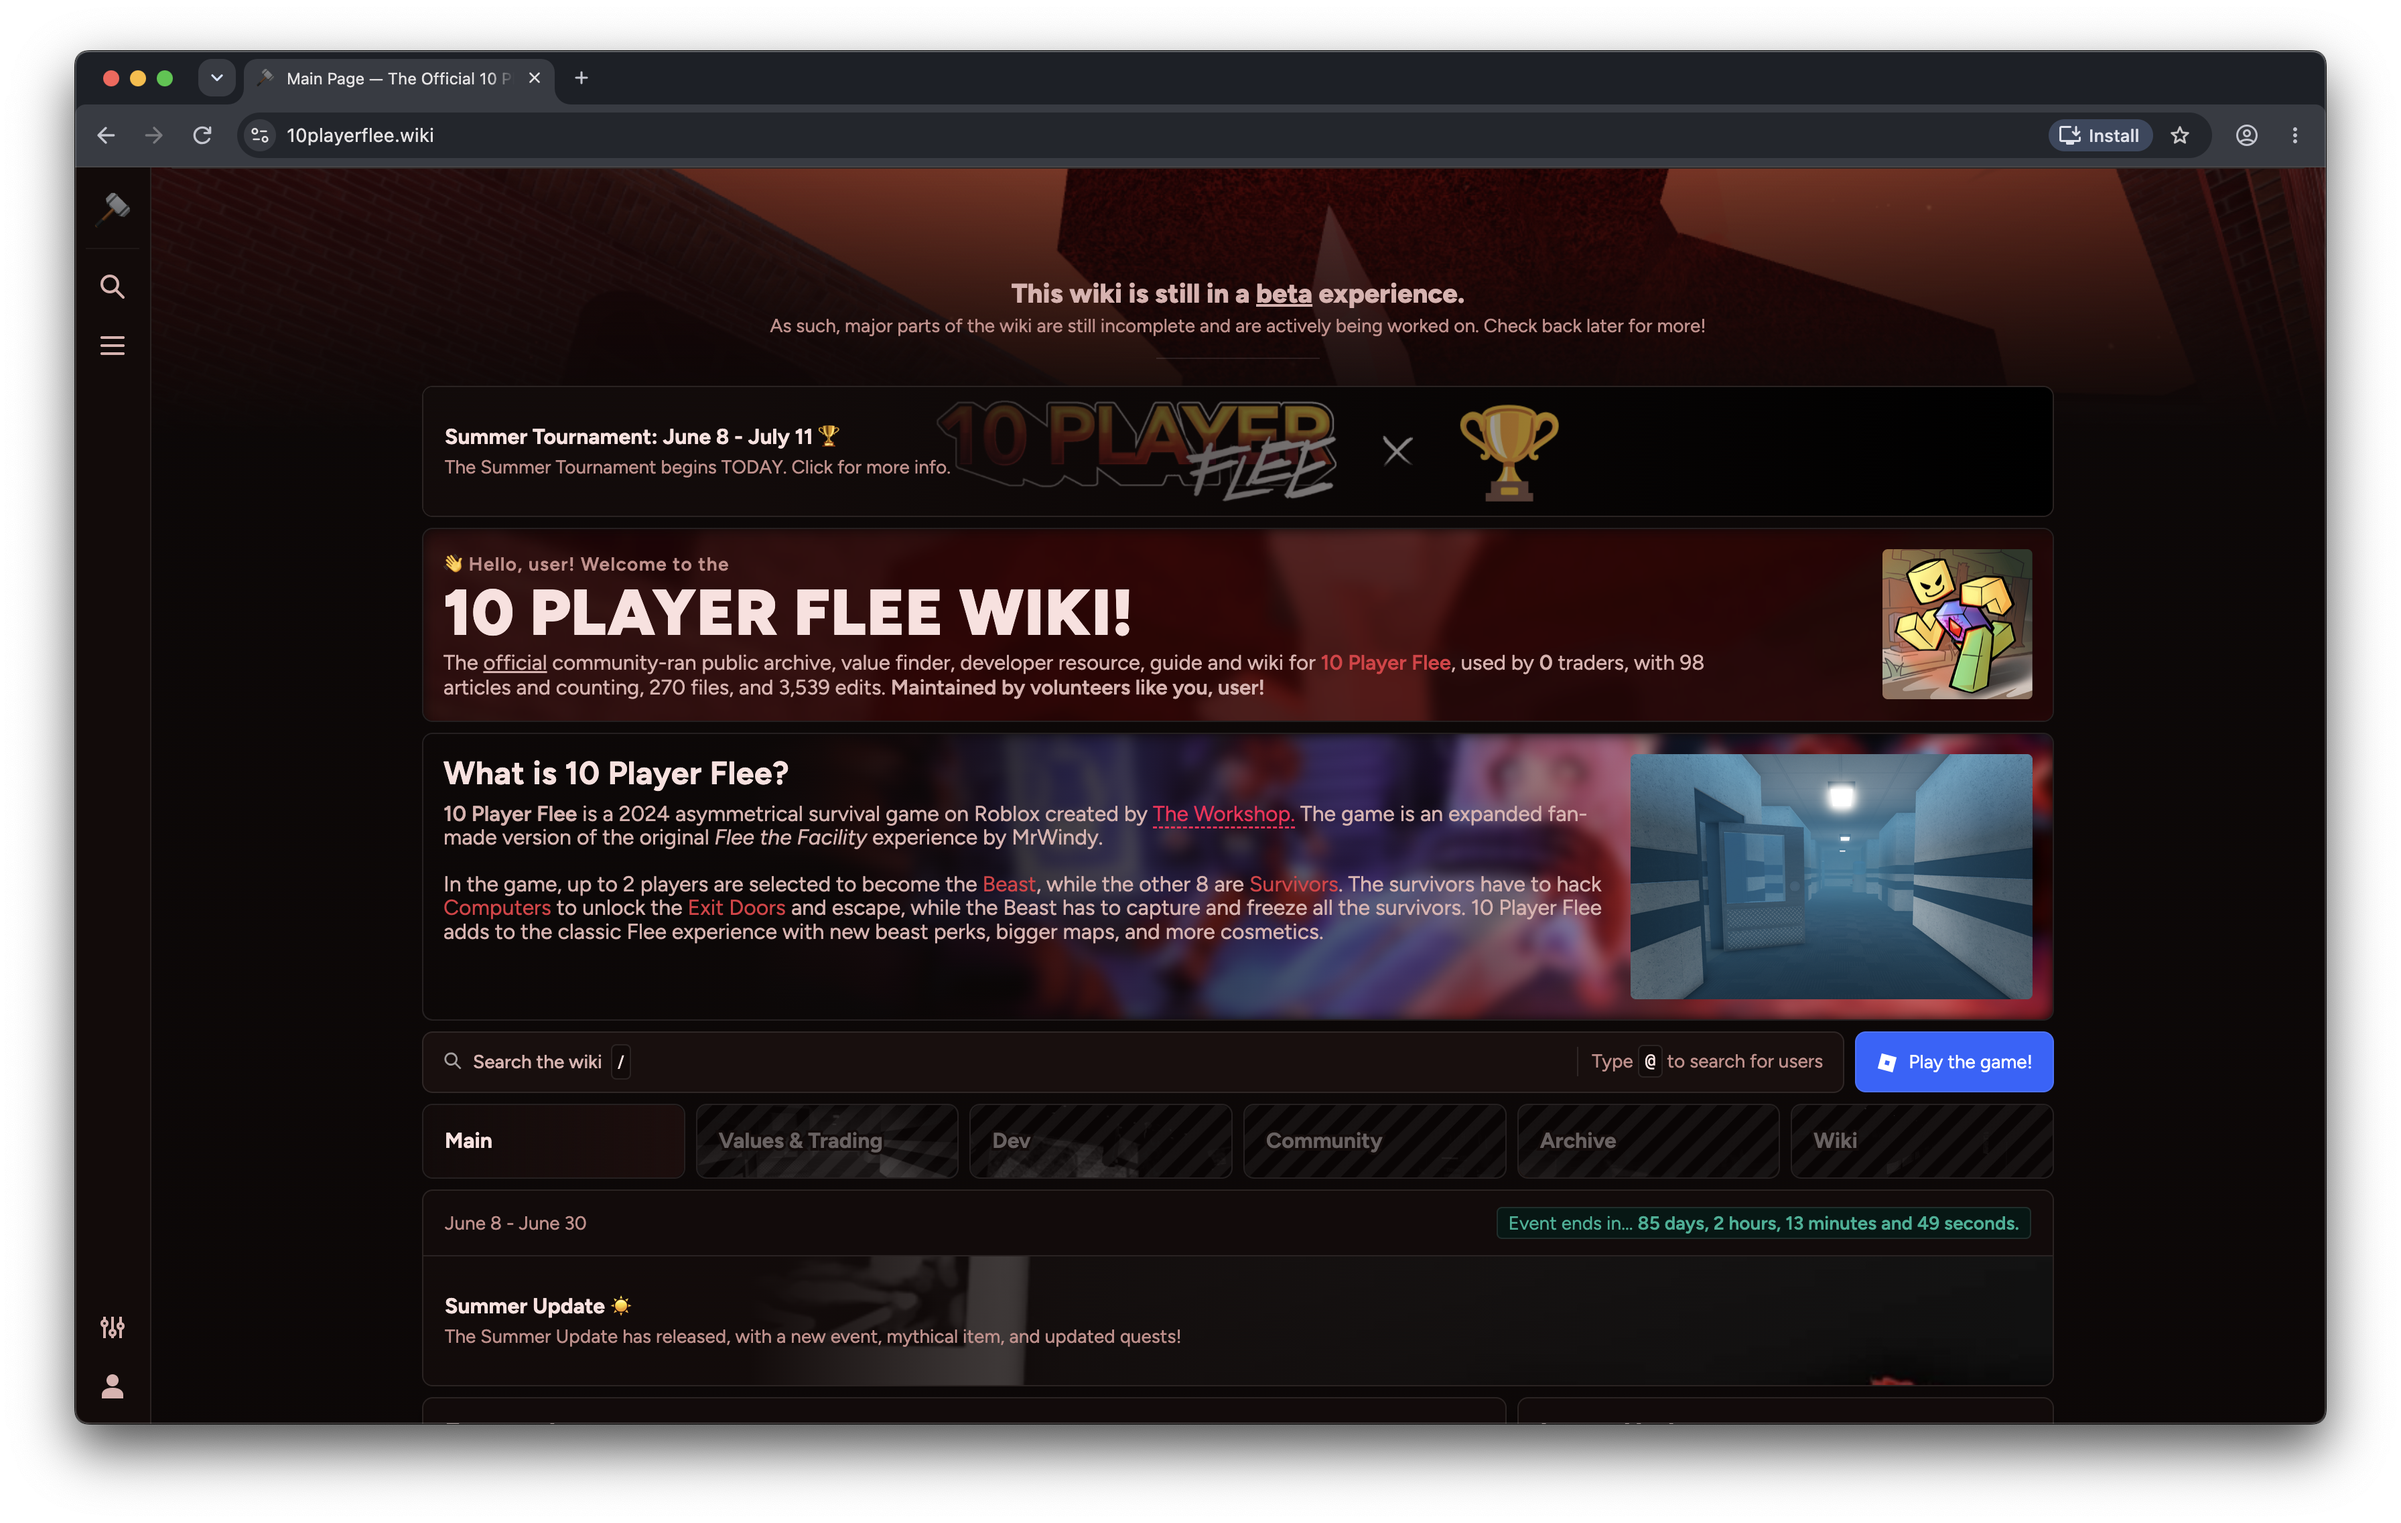
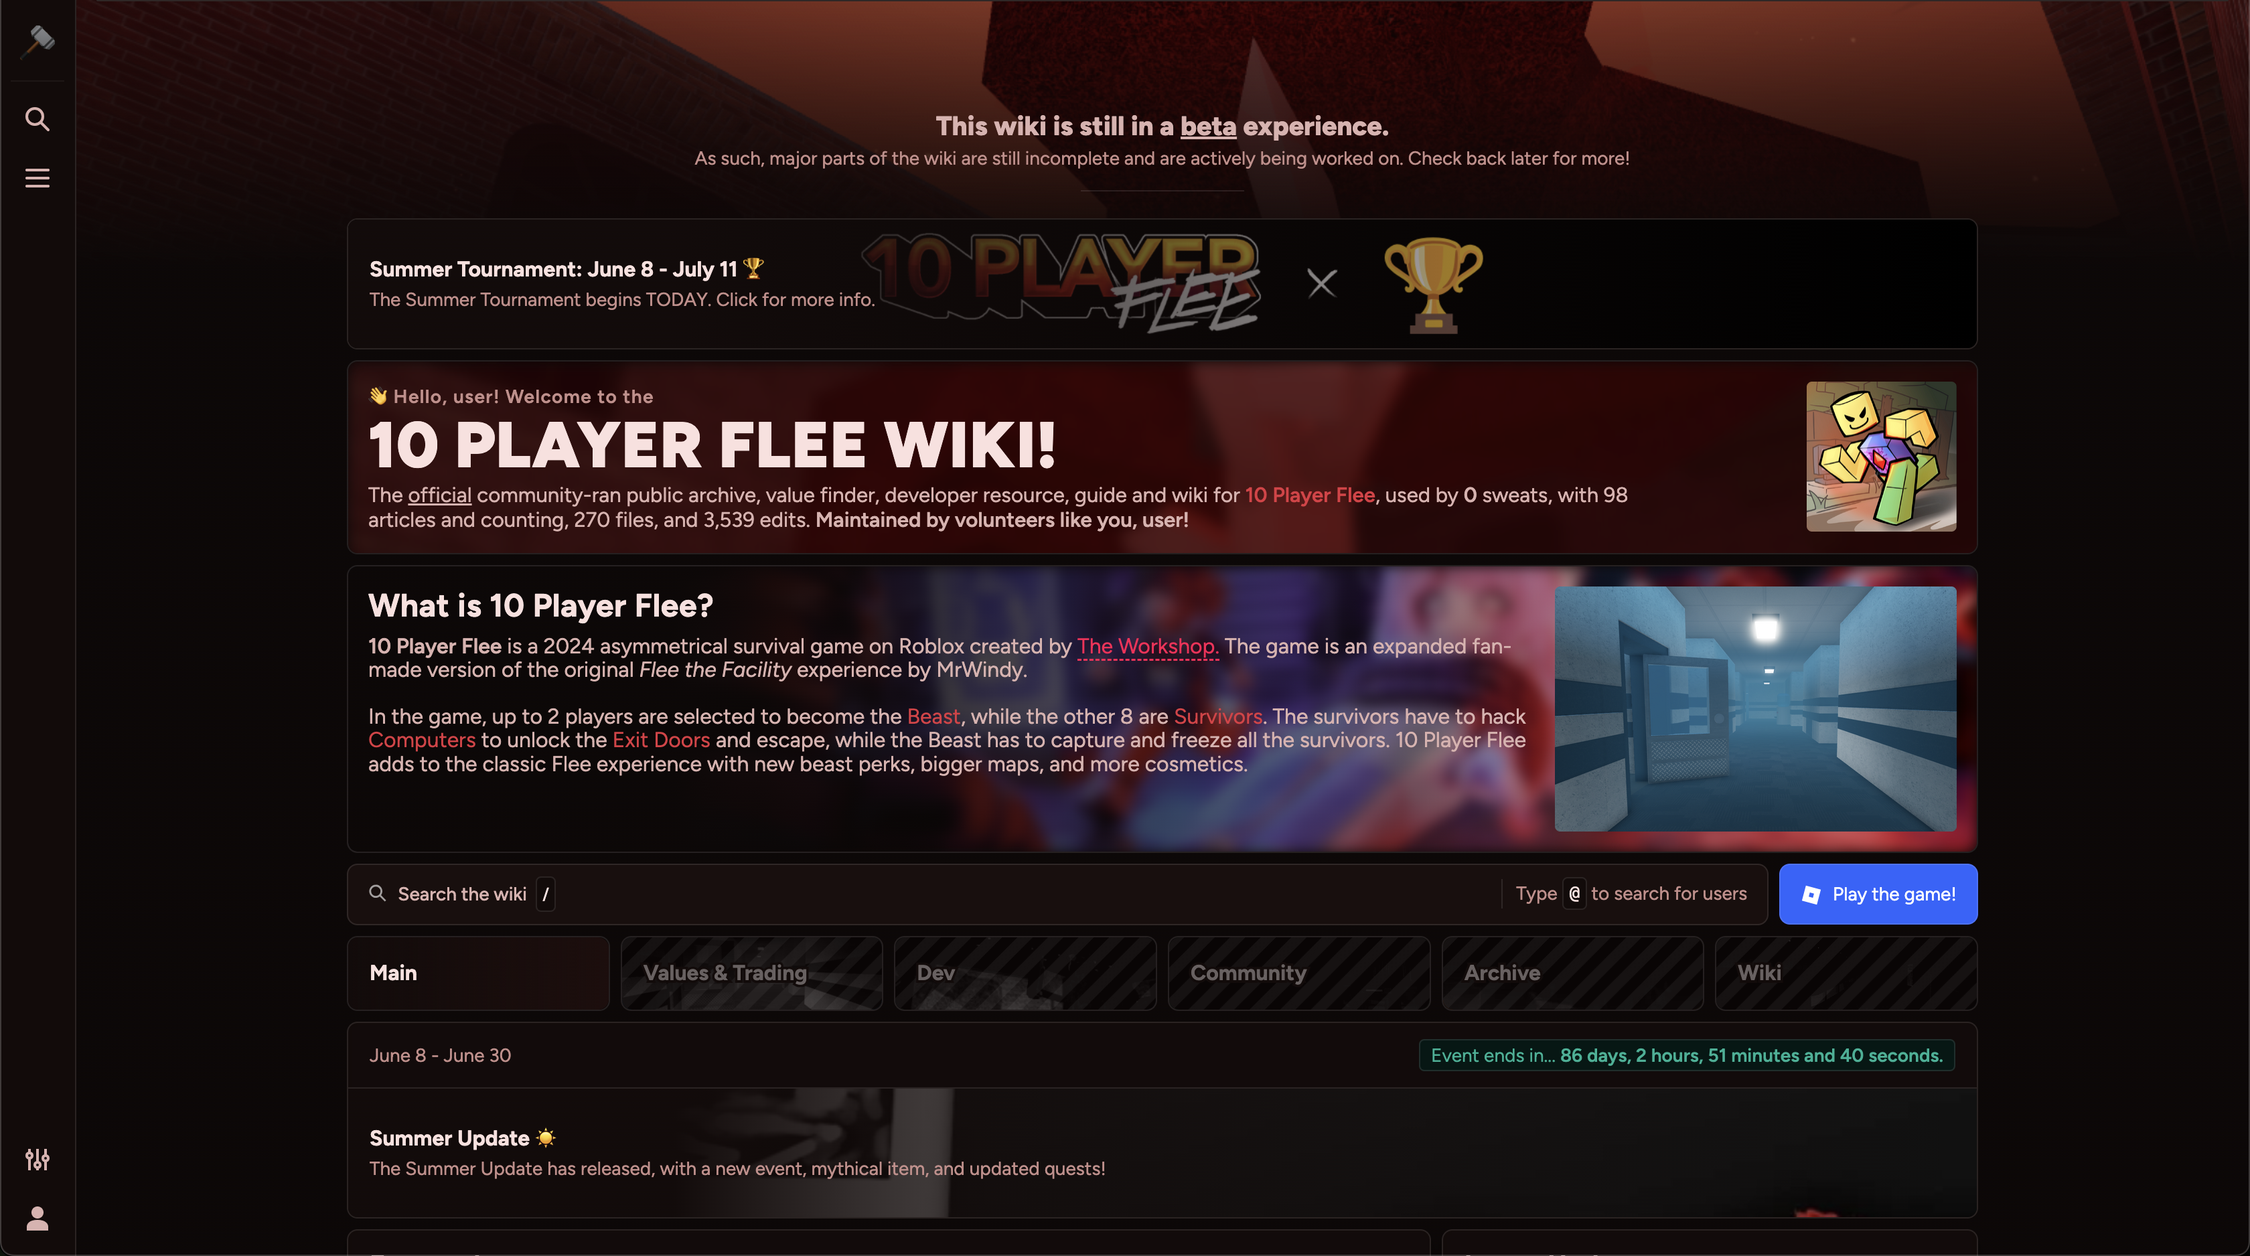
modified:   assets/images/wiki-images/main-pages/10pf-mp.png modified:   assets/images/wiki-images/main-pages/fsk-mp.png modified:   assets/images/wiki-images/main-pages/gbp-mp.png new file:   assets/images/wiki-images/main-pages/zvh-mp.png deleted:    assets/images/wiki-images/main-pages/zvh-mp2.pn

diff --git a/index.html b/index.html
@@ -35,7 +35,7 @@ description: "Say hello to my world. Web developer, web designer, and wiki enthu
                     </div>
                 </div>
                 <div class="works__cardImage">
-                    <img src="{{ '/assets/images/wiki-images/main-pages/zvh-mp2.png' | relative_url }}" draggable="false" alt="Zombies vs Humans Wiki homepage.">
+                    <img src="{{ '/assets/images/wiki-images/main-pages/zvh-mp.png' | relative_url }}" draggable="false" alt="Zombies vs Humans Wiki homepage.">
                 </div>
             </div>
         </div>
